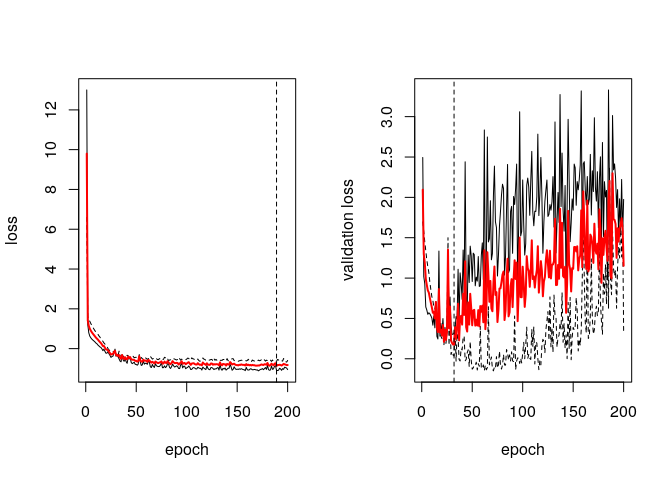
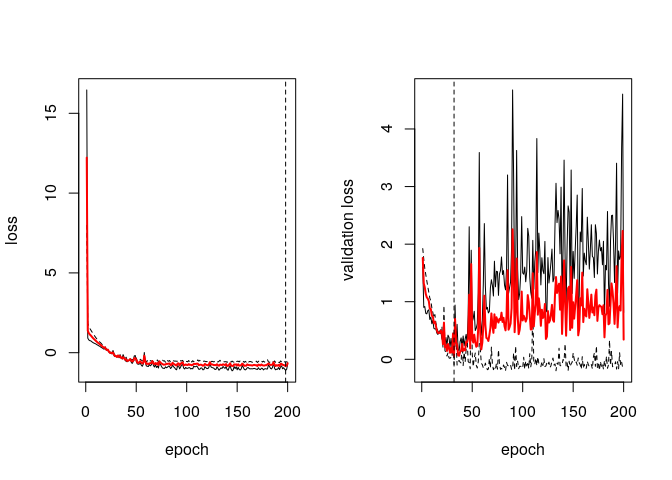
rerun md

diff --git a/README.md b/README.md
@@ -221,25 +221,25 @@ cvres <- mod %>% cv(epochs=100)
     ## Warning in cv(., epochs = 100): No folds for CV given, using k = 10.
 
     ## Fitting Fold  1  ... 
-    ## Done in 21.97714  secs 
+    ## Done in 22.09402  secs 
     ## Fitting Fold  2  ... 
-    ## Done in 22.51995  secs 
+    ## Done in 20.83552  secs 
     ## Fitting Fold  3  ... 
-    ## Done in 27.58315  secs 
+    ## Done in 20.80279  secs 
     ## Fitting Fold  4  ... 
-    ## Done in 23.31558  secs 
+    ## Done in 21.71101  secs 
     ## Fitting Fold  5  ... 
-    ## Done in 23.461  secs 
+    ## Done in 24.49135  secs 
     ## Fitting Fold  6  ... 
-    ## Done in 23.62165  secs 
+    ## Done in 21.26566  secs 
     ## Fitting Fold  7  ... 
-    ## Done in 22.12731  secs 
+    ## Done in 23.94886  secs 
     ## Fitting Fold  8  ... 
-    ## Done in 23.82287  secs 
+    ## Done in 24.52409  secs 
     ## Fitting Fold  9  ... 
-    ## Done in 25.40915  secs 
+    ## Done in 24.35747  secs 
     ## Fitting Fold  10  ... 
-    ## Done in 22.94119  secs
+    ## Done in 23.6644  secs
 
 ![](README_files/figure-markdown_github/unnamed-chunk-5-1.png)
 
@@ -347,33 +347,33 @@ mod %>% coef()
     ## $loc
     ## $loc$structured_nonlinear
     ##              [,1]
-    ##  [1,]  0.67900956
-    ##  [2,]  0.56492770
-    ##  [3,] -0.40518686
-    ##  [4,] -2.59120464
-    ##  [5,] -0.85351551
-    ##  [6,] -0.05693278
-    ##  [7,]  0.49672955
-    ##  [8,]  1.25111115
-    ##  [9,] -0.84274215
-    ## [10,]  0.15886177
-    ## [11,]  2.52708530
-    ## [12,]  1.04166746
-    ## [13,] -0.63558298
-    ## [14,]  0.17375962
-    ## [15,] -0.24027291
-    ## [16,] -0.28326494
-    ## [17,]  0.21383536
-    ## [18,] -0.34133691
-    ## [19,] -0.67327487
-    ## [20,]  0.79042685
-    ## [21,]  1.92835712
+    ##  [1,]  0.13732553
+    ##  [2,]  1.05068362
+    ##  [3,] -0.35663056
+    ##  [4,] -2.71700454
+    ##  [5,] -0.83350438
+    ##  [6,] -0.01713021
+    ##  [7,]  0.43711060
+    ##  [8,]  1.22317624
+    ##  [9,] -0.79938602
+    ## [10,]  0.77136862
+    ## [11,]  2.38366628
+    ## [12,]  1.09855545
+    ## [13,] -0.61130136
+    ## [14,]  0.16264610
+    ## [15,] -0.21370493
+    ## [16,] -0.29609966
+    ## [17,]  0.19710314
+    ## [18,] -0.33784550
+    ## [19,] -0.65737909
+    ## [20,]  0.95157951
+    ## [21,]  1.94830942
     ## 
     ## 
     ## $scale
     ## $scale$structured_linear
     ##          [,1]
-    ## [1,] 2.028934
+    ## [1,] 2.040742
 
 ``` r
 # plot model
@@ -476,24 +476,24 @@ mod %>% coef()
     ## $loc
     ## $loc$structured_nonlinear
     ##              [,1]
-    ##  [1,] -0.03366097
-    ##  [2,]  0.17637527
-    ##  [3,] -0.12078981
-    ##  [4,] -2.22807026
-    ##  [5,] -0.97890896
-    ##  [6,] -0.28311768
-    ##  [7,]  0.35701439
-    ##  [8,]  1.04281616
-    ##  [9,] -0.26316944
-    ## [10,]  0.70006949
-    ## [11,]  1.73463261
+    ##  [1,]  0.69396508
+    ##  [2,] -0.18849275
+    ##  [3,] -0.09618219
+    ##  [4,] -2.24367547
+    ##  [5,] -0.87267220
+    ##  [6,] -0.27696791
+    ##  [7,]  0.41991803
+    ##  [8,]  1.27324545
+    ##  [9,] -0.42565411
+    ## [10,]  0.06840106
+    ## [11,]  1.89568913
     ## 
     ## 
     ## $scale
     ## $scale$structured_linear
-    ##            [,1]
-    ## [1,] -0.2116487
-    ## [2,]  2.0475173
+    ##          [,1]
+    ## [1,] 0.103509
+    ## [2,] 2.059198
 
 Examples for each Distribution
 ------------------------------
@@ -638,9 +638,9 @@ cvres <- mod %>% cv(epochs = 200)
 ```
 
     ## Fitting Fold  1  ... 
-    ## Done in 45.10362  secs 
+    ## Done in 51.20007  secs 
     ## Fitting Fold  2  ... 
-    ## Done in 1.024438  mins
+    ## Done in 1.036325  mins
 
 ![](README_files/figure-markdown_github/unnamed-chunk-10-1.png)
 
@@ -651,7 +651,7 @@ pred <- mod %>% predict(test)
 mean((pred-test$LWAGE)^2)
 ```
 
-    ## [1] 0.03571962
+    ## [1] 0.0573948
 
 ### Deep Quantile Regression on Motorcycle Data
 
@@ -661,18 +661,8 @@ mean((pred-test$LWAGE)^2)
 #### and use distributional regression to compare
 #### with quantile regression
 library(MASS)
-```
-
-    ## 
-    ## Attaching package: 'MASS'
-
-    ## The following object is masked from 'package:deepregression':
-    ## 
-    ##     select
-
-``` r
 data("mcycle")
-set.seed(42)
+set.seed(48)
 
 res = data.frame(RMSE = NA, time = NA)
 
@@ -716,9 +706,9 @@ for(sim_iteration in 1:nrsims){
 apply(res, 2, function(x) c(mean(x, na.rm=T), sd(x, na.rm=T)))
 ```
 
-    ##          RMSE    time
-    ## [1,] 41.14596 1.48144
-    ## [2,] 17.72381 0.10744
+    ##          RMSE       time
+    ## [1,] 42.69921 1.38177993
+    ## [2,] 19.36599 0.08203576
 
 ``` r
 #### plot mean and quantiles
@@ -747,16 +737,6 @@ fitdf %>%
   geom_line(aes(x=times, y=q10), col="red", linetype = 3) + 
   geom_line(aes(x=times, y=q90), col="red", linetype = 4)
 ```
-
-    ## Warning: Removed 133 rows containing missing values (geom_path).
-
-    ## Warning: Removed 133 rows containing missing values (geom_path).
-
-    ## Warning: Removed 133 rows containing missing values (geom_path).
-
-    ## Warning: Removed 133 rows containing missing values (geom_path).
-
-    ## Warning: Removed 133 rows containing missing values (geom_path).
 
 ![](README_files/figure-markdown_github/unnamed-chunk-11-1.png)
 
@@ -794,33 +774,33 @@ cvres <- mod %>% cv(epochs = 100)
 ```
 
     ## Fitting Fold  1  ... 
-    ## Done in 8.319818  secs 
+    ## Done in 8.382484  secs 
     ## Fitting Fold  2  ... 
-    ## Done in 7.854326  secs 
+    ## Done in 7.223637  secs 
     ## Fitting Fold  3  ... 
-    ## Done in 8.242195  secs 
+    ## Done in 7.546076  secs 
     ## Fitting Fold  4  ... 
-    ## Done in 8.042455  secs 
+    ## Done in 7.9415  secs 
     ## Fitting Fold  5  ... 
-    ## Done in 8.003876  secs 
+    ## Done in 7.334122  secs 
     ## Fitting Fold  6  ... 
-    ## Done in 7.602569  secs 
+    ## Done in 7.737437  secs 
     ## Fitting Fold  7  ... 
-    ## Done in 7.818915  secs 
+    ## Done in 7.466359  secs 
     ## Fitting Fold  8  ... 
-    ## Done in 7.549387  secs 
+    ## Done in 7.750818  secs 
     ## Fitting Fold  9  ... 
-    ## Done in 7.905226  secs 
+    ## Done in 7.288137  secs 
     ## Fitting Fold  10  ... 
-    ## Done in 8.627528  secs 
+    ## Done in 7.544744  secs 
     ## Fitting Fold  11  ... 
-    ## Done in 7.620163  secs 
+    ## Done in 7.268436  secs 
     ## Fitting Fold  12  ... 
-    ## Done in 7.682428  secs 
+    ## Done in 7.654012  secs 
     ## Fitting Fold  13  ... 
-    ## Done in 7.996781  secs 
+    ## Done in 7.350421  secs 
     ## Fitting Fold  14  ... 
-    ## Done in 7.506555  secs
+    ## Done in 7.387538  secs
 
 ![](README_files/figure-markdown_github/unnamed-chunk-12-1.png)
 
@@ -832,12 +812,12 @@ summary(coef[[1]][[1]])
 ```
 
     ##        V1            
-    ##  Min.   :-0.7870299  
-    ##  1st Qu.:-0.0058896  
-    ##  Median :-0.0003484  
-    ##  Mean   :-0.0005080  
-    ##  3rd Qu.: 0.0053644  
-    ##  Max.   : 0.0304320
+    ##  Min.   :-0.5453303  
+    ##  1st Qu.:-0.0056927  
+    ##  Median :-0.0002700  
+    ##  Mean   :-0.0004081  
+    ##  3rd Qu.: 0.0047719  
+    ##  Max.   : 0.0276726
 
 ``` r
 pred <- mod %>% predict(newdata = test[,-1])
@@ -863,33 +843,33 @@ cvres <- mod %>% cv(epochs = 100)
 ![](README_files/figure-markdown_github/unnamed-chunk-12-2.png)
 
     ## Fitting Fold  1  ... 
-    ## Done in 5.887945  secs 
+    ## Done in 5.165127  secs 
     ## Fitting Fold  2  ... 
-    ## Done in 4.9724  secs 
+    ## Done in 4.582513  secs 
     ## Fitting Fold  3  ... 
-    ## Done in 5.508932  secs 
+    ## Done in 4.69524  secs 
     ## Fitting Fold  4  ... 
-    ## Done in 5.17446  secs 
+    ## Done in 4.659523  secs 
     ## Fitting Fold  5  ... 
-    ## Done in 5.256541  secs 
+    ## Done in 4.846127  secs 
     ## Fitting Fold  6  ... 
-    ## Done in 4.685565  secs 
+    ## Done in 4.89717  secs 
     ## Fitting Fold  7  ... 
-    ## Done in 4.850859  secs 
+    ## Done in 4.670654  secs 
     ## Fitting Fold  8  ... 
-    ## Done in 4.584762  secs 
+    ## Done in 4.61822  secs 
     ## Fitting Fold  9  ... 
-    ## Done in 5.08473  secs 
+    ## Done in 4.713288  secs 
     ## Fitting Fold  10  ... 
-    ## Done in 5.284264  secs 
+    ## Done in 4.621037  secs 
     ## Fitting Fold  11  ... 
-    ## Done in 5.290449  secs 
+    ## Done in 4.773211  secs 
     ## Fitting Fold  12  ... 
-    ## Done in 4.679508  secs 
+    ## Done in 4.621058  secs 
     ## Fitting Fold  13  ... 
-    ## Done in 5.300982  secs 
+    ## Done in 4.859197  secs 
     ## Fitting Fold  14  ... 
-    ## Done in 5.585114  secs
+    ## Done in 4.605291  secs
 
 ![](README_files/figure-markdown_github/unnamed-chunk-12-3.png)
 
@@ -995,12 +975,8 @@ mod <- deepregression(y = y_train,
 
 # model does not need to have many epochs as 
 # the 0 is easily detected using some specific pixels
-cvres <- mod %>% fit(epochs = 50, validation_split = NULL, steps_per_epoch=1)
-```
-
-    ## starting httpd help server ... done
-
-``` r
+cvres <- mod %>% fit(epochs = 50, validation_split = NULL, steps_per_epoch=1,
+                     view_metrics = FALSE)
 # currenty has some issues when using actual batch training,
 # see also: https://github.com/keras-team/keras/issues/11749
 pred <- mod %>% predict(x_test)
@@ -1012,15 +988,16 @@ table(data.frame(pred=apply(pred,1,which.max)-1,
 
     ##     truth
     ## pred    0    1    2    3    4    5    6    7    8    9
-    ##    0  968    0   11    1    1    4   11    0    4   15
-    ##    1    0 1119    0    0    0    1    3   10    3    8
-    ##    2    1    6  985   11    4    0    0   18    6    1
-    ##    3    1    2    6  964    0   18    0    1   14   21
-    ##    4    0    0    5    0  962    4    4    3    6  577
-    ##    5    2    1    0    5    0  842    9    1    8   20
-    ##    6    5    3    6    0    9   11  926    0    7    1
-    ##    7    1    0    8   14    3    1    1  995   11  327
-    ##    8    2    4   11   15    3   11    4    0  915   39
+    ##    0  967    0    9    2    0    6   11    1    6    7
+    ##    1    0 1120    1    1    1    1    3    7    2    6
+    ##    2    0    4  966   13    3    0    2   21    6    1
+    ##    3    1    2   11  959    0   22    0    1   13   15
+    ##    4    0    0    7    0  945    5    5    4    8   22
+    ##    5    3    1    2    6    0  826   11    0    4    6
+    ##    6    5    3    6    0   10   11  922    0    8    1
+    ##    7    2    0   10   12    2    3    0  980    9   11
+    ##    8    2    5   18   14    3   14    4    1  913    4
+    ##    9    0    0    2    3   18    4    0   13    5  936
 
 Text as Input
 -------------
